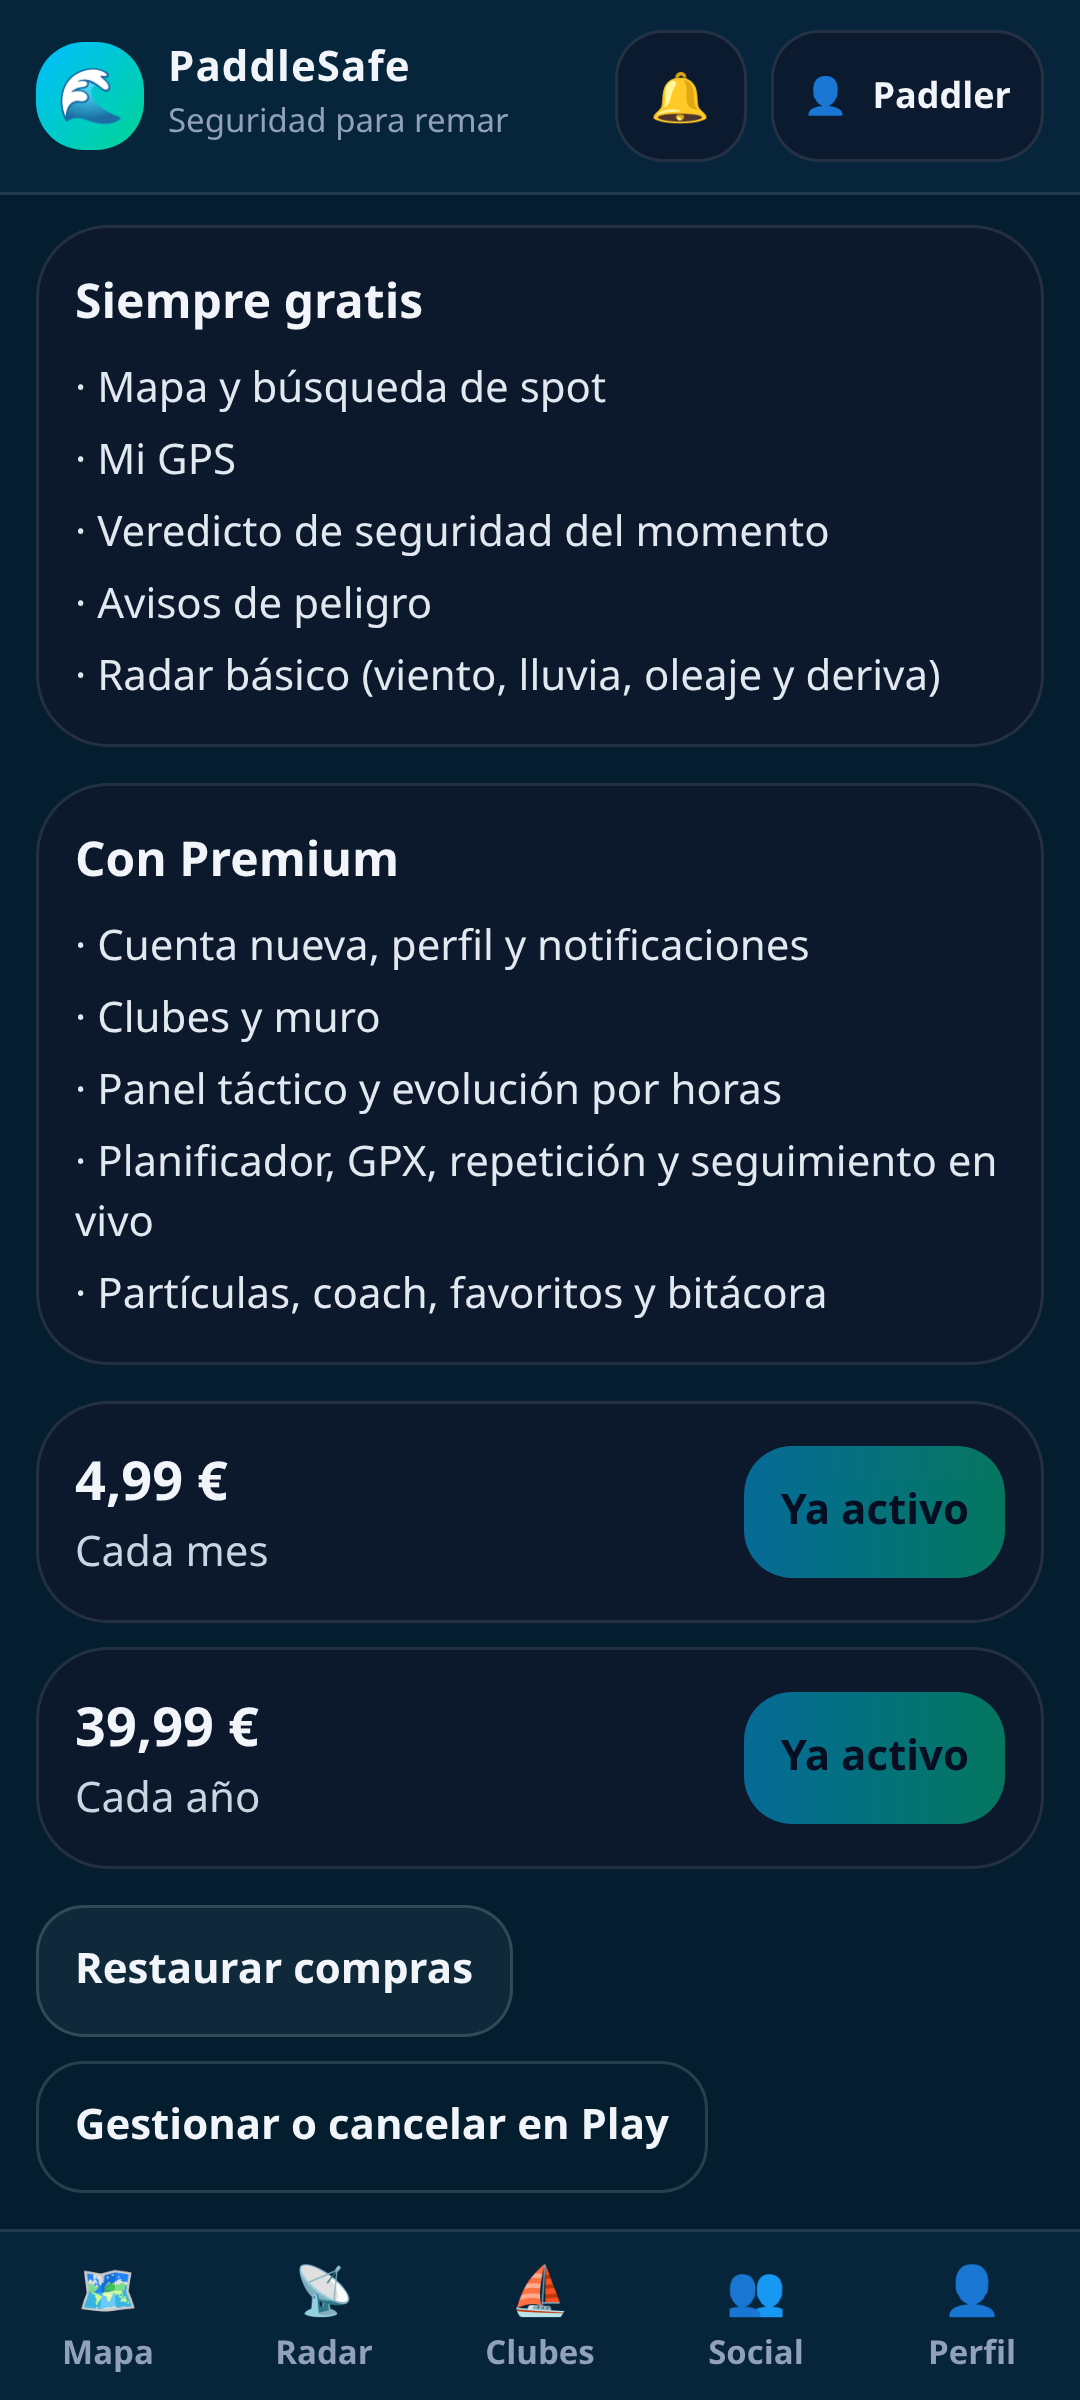
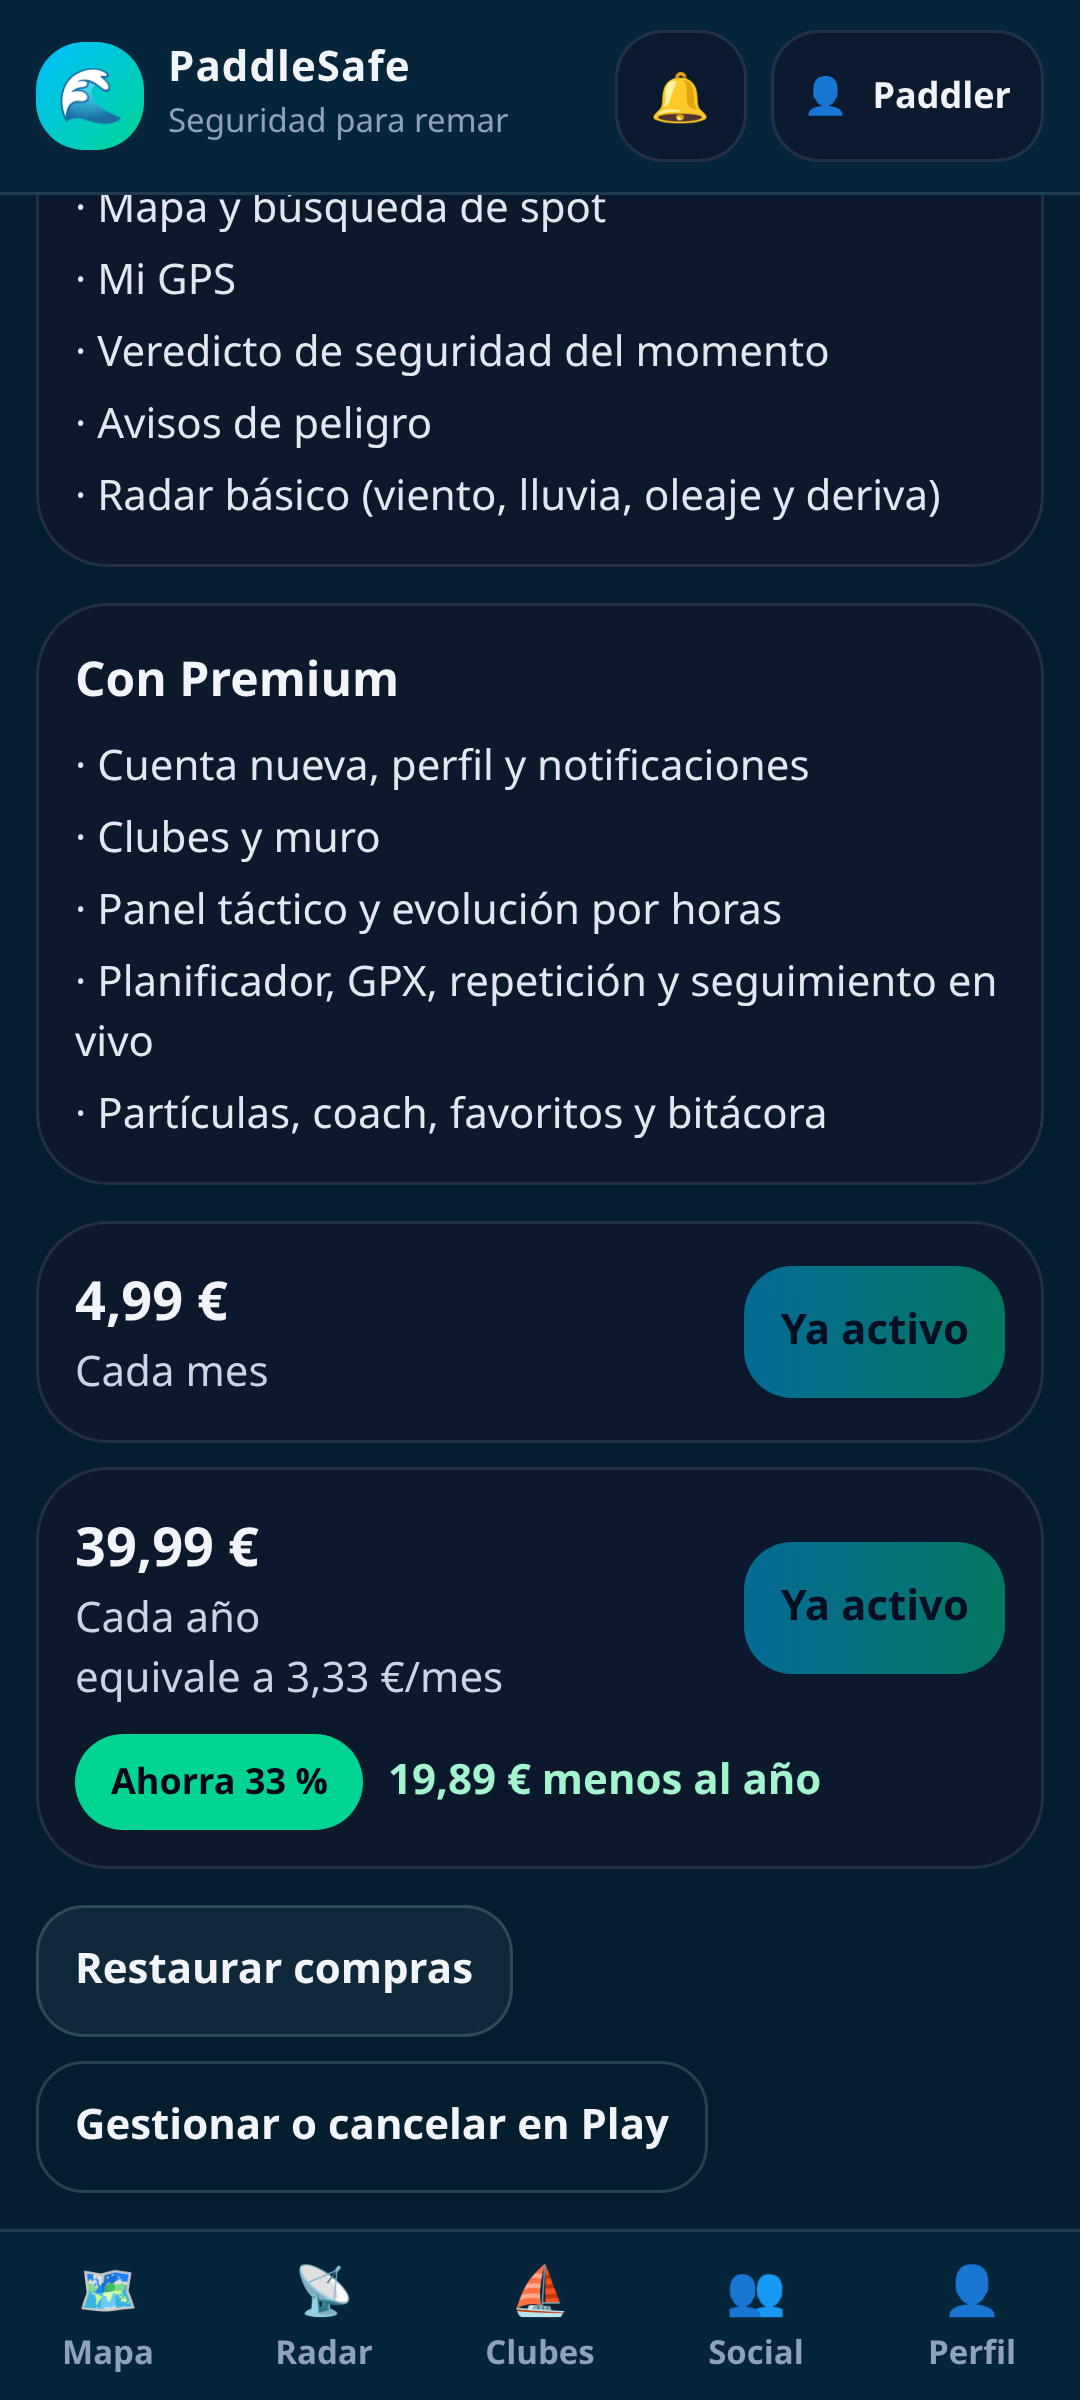
feat(premium): mostrar el ahorro del plan anual con los precios de Play
La insignia sale de priceAmountMicros: 12 meses a 4,99 € son 59,88 €, así que el anual de 39,99 € ahorra 19,89 € y un 33 %. Si falta el mensual o un importe, no hay insignia.

diff --git a/web/src/pages/PremiumPage.tsx b/web/src/pages/PremiumPage.tsx
@@ -2,6 +2,7 @@ import { useState } from 'react';
 import { Aviso, Boton, Tarjeta } from '@/components/ui';
 import { useAcceso } from '@/context/AccesoContext';
 import { textoPeriodo } from '@/lib/acceso';
+import { ahorroAnual } from '@/lib/ahorro';
 import { esFicha } from '@/lib/ficha';
 import { comprarPlan, esAndroid, restaurarPlay, urlGestionSuscripcion } from '@/lib/play';
 
@@ -13,6 +14,7 @@ export function PremiumPage() {
   const [ocupado, setOcupado] = useState(false);
   const [nota, setNota] = useState<string | null>(null);
   const android = esAndroid() || esFicha();
+  const ahorro = ahorroAnual(play.planes);
 
   async function comprar(oferta: string) {
     setOcupado(true);
@@ -72,12 +74,21 @@ export function PremiumPage() {
       {nota && <Aviso tipo="ok">{nota}</Aviso>}
       <div className="space-y-2">
         {play.planes.map((plan) => (
-          <Tarjeta key={plan.oferta} className="flex flex-wrap items-center justify-between gap-3">
-            <div>
-              <p className="text-lg font-black">{plan.precio}</p>
-              <p className="text-sm text-slate-300">{textoPeriodo(plan.periodo)}</p>
+          <Tarjeta key={plan.oferta} className="space-y-2">
+            <div className="flex flex-wrap items-center justify-between gap-3">
+              <div>
+                <p className="text-lg font-black">{plan.precio}</p>
+                <p className="text-sm text-slate-300">{textoPeriodo(plan.periodo)}</p>
+                {plan.periodo === 'P1Y' && ahorro && <p className="text-sm text-slate-300">equivale a {ahorro.alMes}/mes</p>}
+              </div>
+              <Boton disabled={ocupado || premium} onClick={() => comprar(plan.oferta)}>{premium ? 'Ya activo' : 'Suscribirme'}</Boton>
             </div>
-            <Boton disabled={ocupado || premium} onClick={() => comprar(plan.oferta)}>{premium ? 'Ya activo' : 'Suscribirme'}</Boton>
+            {plan.periodo === 'P1Y' && ahorro && (
+              <div className="flex flex-wrap items-center gap-2">
+                <span className="inline-flex min-h-8 items-center rounded-full bg-emerald-400 px-3 text-xs font-black text-slate-950">Ahorra {ahorro.porcentaje} %</span>
+                <span className="text-sm font-bold text-emerald-200">{ahorro.menosAlAno} menos al año</span>
+              </div>
+            )}
           </Tarjeta>
         ))}
       </div>

diff --git a/web/src/lib/ahorro.test.ts b/web/src/lib/ahorro.test.ts
@@ -1,0 +1,76 @@
+import { describe, expect, it } from 'vitest';
+import { ahorroAnual } from './ahorro';
+
+const MES = 4_990_000;
+const ANO = 39_990_000;
+
+describe('ahorro del plan anual', () => {
+  it('calcula el 33 % y 19,89 € a partir de los micros de 4,99 y 39,99', () => {
+    const ahorro = ahorroAnual(
+      [
+        { periodo: 'P1M', micros: MES, moneda: 'EUR' },
+        { periodo: 'P1Y', micros: ANO, moneda: 'EUR' }
+      ],
+      'es-ES'
+    );
+    expect(ahorro).toEqual({
+      porcentaje: 33,
+      menosAlAno: '19,89 €',
+      alMes: '3,33 €'
+    });
+  });
+
+  it('redondea el porcentaje hacia abajo', () => {
+    const mes = 10_000_000;
+    const doce = mes * 12;
+    const menos = Math.floor(doce * 0.339);
+    const ahorro = ahorroAnual(
+      [
+        { periodo: 'P1M', micros: mes, moneda: 'EUR' },
+        { periodo: 'P1Y', micros: doce - menos, moneda: 'EUR' }
+      ],
+      'es-ES'
+    );
+    expect(ahorro?.porcentaje).toBe(33);
+    expect(Math.round((menos / doce) * 100)).toBe(34);
+  });
+
+  it('no muestra insignia si falta el mensual, un importe o la moneda', () => {
+    expect(ahorroAnual([{ periodo: 'P1Y', micros: ANO, moneda: 'EUR' }], 'es-ES')).toBeNull();
+    expect(ahorroAnual(
+      [
+        { periodo: 'P1M', micros: null, moneda: 'EUR' },
+        { periodo: 'P1Y', micros: ANO, moneda: 'EUR' }
+      ],
+      'es-ES'
+    )).toBeNull();
+    expect(ahorroAnual(
+      [
+        { periodo: 'P1M', micros: MES, moneda: 'EUR' },
+        { periodo: 'P1Y', micros: null, moneda: 'EUR' }
+      ],
+      'es-ES'
+    )).toBeNull();
+    expect(ahorroAnual(
+      [
+        { periodo: 'P1M', micros: MES, moneda: null },
+        { periodo: 'P1Y', micros: ANO, moneda: 'EUR' }
+      ],
+      'es-ES'
+    )).toBeNull();
+    expect(ahorroAnual(
+      [
+        { periodo: 'P1M', micros: MES, moneda: 'EUR' },
+        { periodo: 'P1Y', micros: ANO, moneda: 'USD' }
+      ],
+      'es-ES'
+    )).toBeNull();
+    expect(ahorroAnual(
+      [
+        { periodo: 'P1M', micros: MES, moneda: 'EUR' },
+        { periodo: 'P1Y', micros: MES * 12, moneda: 'EUR' }
+      ],
+      'es-ES'
+    )).toBeNull();
+  });
+});

diff --git a/web/src/pages/PremiumPage.test.tsx b/web/src/pages/PremiumPage.test.tsx
@@ -67,6 +67,44 @@ describe('pantalla Premium', () => {
     expect(screen.getByRole('button', { name: 'Restaurar compras' }).hasAttribute('disabled')).toBe(true);
   });
 
+  it('muestra el ahorro del anual cuando Play manda los dos precios en micros', async () => {
+    play.prepararPlay.mockResolvedValue({
+      disponible: true,
+      conectado: true,
+      activo: false,
+      pendiente: false,
+      token: null,
+      producto: 'premium',
+      planes: [
+        { idBase: 'mensual', oferta: 'oferta-mes', precio: '4,99 €', periodo: 'P1M', micros: 4_990_000, moneda: 'EUR' },
+        { idBase: 'anual', oferta: 'oferta-ano', precio: '39,99 €', periodo: 'P1Y', micros: 39_990_000, moneda: 'EUR' }
+      ],
+      error: null
+    });
+    render(
+      <MemoryRouter>
+        <AccesoProvider>
+          <PremiumPage />
+        </AccesoProvider>
+      </MemoryRouter>
+    );
+    expect(await screen.findByText('Ahorra 33 %')).toBeTruthy();
+    expect(screen.getByText(/menos al año/)).toBeTruthy();
+    expect(screen.getByText(/equivale a/)).toBeTruthy();
+  });
+
+  it('no pone insignia si falta el precio mensual', async () => {
+    render(
+      <MemoryRouter>
+        <AccesoProvider>
+          <PremiumPage />
+        </AccesoProvider>
+      </MemoryRouter>
+    );
+    expect(await screen.findByText('3,99 €')).toBeTruthy();
+    expect(screen.queryByText(/Ahorra/)).toBeNull();
+  });
+
   it('al suscribirse usa el token de oferta que mandó Play', async () => {
     play.comprarPlan.mockResolvedValue({
       disponible: true, conectado: true, activo: true, pendiente: false, token: 'tok', producto: 'premium', planes: [], error: null

diff --git a/web/src/lib/ahorro.ts b/web/src/lib/ahorro.ts
@@ -1,0 +1,38 @@
+import type { PlanPlay } from '@/lib/play';
+
+export type AhorroAnual = {
+  porcentaje: number;
+  menosAlAno: string;
+  alMes: string;
+};
+
+/**
+ * Ahorro del plan anual frente a pagar doce meses.
+ * El porcentaje se redondea hacia abajo. Sin mensual, sin micros o sin moneda, no hay insignia.
+ */
+export function ahorroAnual(planes: Array<Pick<PlanPlay, 'periodo' | 'micros' | 'moneda'>>, locale?: string): AhorroAnual | null {
+  const mensual = planes.find((plan) => plan.periodo === 'P1M');
+  const anual = planes.find((plan) => plan.periodo === 'P1Y');
+  if (!mensual || !anual) return null;
+  const mes = mensual.micros;
+  const ano = anual.micros;
+  const moneda = mensual.moneda;
+  if (mes == null || ano == null || !moneda || moneda !== anual.moneda) return null;
+  if (!Number.isFinite(mes) || !Number.isFinite(ano) || mes <= 0 || ano < 0) return null;
+  const doce = mes * 12;
+  const menos = doce - ano;
+  if (menos <= 0) return null;
+  const porcentaje = Math.floor((menos * 100) / doce);
+  if (porcentaje <= 0) return null;
+  let formato: Intl.NumberFormat;
+  try {
+    formato = new Intl.NumberFormat(locale, { style: 'currency', currency: moneda });
+  } catch {
+    return null;
+  }
+  return {
+    porcentaje,
+    menosAlAno: formato.format(menos / 1_000_000),
+    alMes: formato.format(ano / 12 / 1_000_000)
+  };
+}

diff --git a/web/src/lib/ficha.ts b/web/src/lib/ficha.ts
@@ -27,8 +27,8 @@ export const PLAY_FICHA: EstadoPlay = {
   token: null,
   producto: 'premium',
   planes: [
-    { idBase: 'premium', oferta: 'mensual', precio: '4,99 €', periodo: 'P1M' },
-    { idBase: 'premium', oferta: 'anual', precio: '39,99 €', periodo: 'P1Y' }
+    { idBase: 'mensual', oferta: 'mensual', precio: '4,99 €', periodo: 'P1M', micros: 4_990_000, moneda: 'EUR' },
+    { idBase: 'anual', oferta: 'anual', precio: '39,99 €', periodo: 'P1Y', micros: 39_990_000, moneda: 'EUR' }
   ],
   error: null
 };

diff --git a/web/src/lib/play.ts b/web/src/lib/play.ts
@@ -9,6 +9,10 @@ export type PlanPlay = {
   oferta: string;
   precio: string;
   periodo: string;
+  /** priceAmountMicros de la fase recurrente. Vacío si Play no lo manda. */
+  micros?: number | null;
+  /** priceCurrencyCode de esa fase. */
+  moneda?: string | null;
 };
 
 export type EstadoPlay = {

diff --git a/web/android/app/src/main/java/es/evolucionesdigitales/paddlesafe/PlayBillingPlugin.java b/web/android/app/src/main/java/es/evolucionesdigitales/paddlesafe/PlayBillingPlugin.java
@@ -109,12 +109,14 @@ public class PlayBillingPlugin extends Plugin {
                     for (ProductDetails.SubscriptionOfferDetails oferta : ofertas) {
                         List<ProductDetails.PricingPhase> fases = oferta.getPricingPhases().getPricingPhaseList();
                         if (fases == null || fases.isEmpty()) continue;
-                        ProductDetails.PricingPhase fase = fases.get(0);
+                        ProductDetails.PricingPhase fase = fases.get(fases.size() - 1);
                         JSObject plan = new JSObject();
                         plan.put("idBase", oferta.getBasePlanId());
                         plan.put("oferta", oferta.getOfferToken());
                         plan.put("precio", fase.getFormattedPrice());
                         plan.put("periodo", fase.getBillingPeriod());
+                        plan.put("micros", fase.getPriceAmountMicros());
+                        plan.put("moneda", fase.getPriceCurrencyCode());
                         planes.put(plan);
                     }
                 }

diff --git a/docs/premium.md b/docs/premium.md
@@ -45,7 +45,11 @@ Si la tabla `premium_derechos` o la columna `acceso_previo` aún no existen y ha
 
 1. Perfil de pagos activo en Google Play Console.
 2. Suscripción con id de producto `premium` (o el valor de `VITE_PLAY_PRODUCT_ID` si se cambia).
-3. Dos planes base, por ejemplo `mensual` (`P1M`) y `anual` (`P1Y`), con precio puesto en Play. La app muestra el texto que Play devuelve.
+3. Dos planes base en la suscripción `premium`, con estos precios:
+   - mensual, periodo `P1M`, **4,99 €**
+   - anual, periodo `P1Y`, **39,99 €**
+
+   La app no escribe el precio: muestra el texto de Play y, en la tarjeta anual, el ahorro frente a doce meses. Lo calcula con `priceAmountMicros` y la moneda de cada plan. Con esos importes sale «Ahorra 33 %» y «19,89 € menos al año» (12 × 4,99 = 59,88; 59,88 − 39,99 = 19,89; el 33,2 % se redondea hacia abajo). Si falta el mensual o un importe, no hay insignia.
 4. Licencias de prueba: cuentas de Gmail en Play Console → Configuración → Pruebas de licencias. Esas cuentas pueden comprar sin cargo real.
 5. La app firmada de release tiene que estar en una pista (interna vale) para que Billing responda. Un APK debug no completa el flujo de compra.
 6. API de Google Play Android Developer habilitada en Google Cloud, en el mismo proyecto que la cuenta de servicio.
